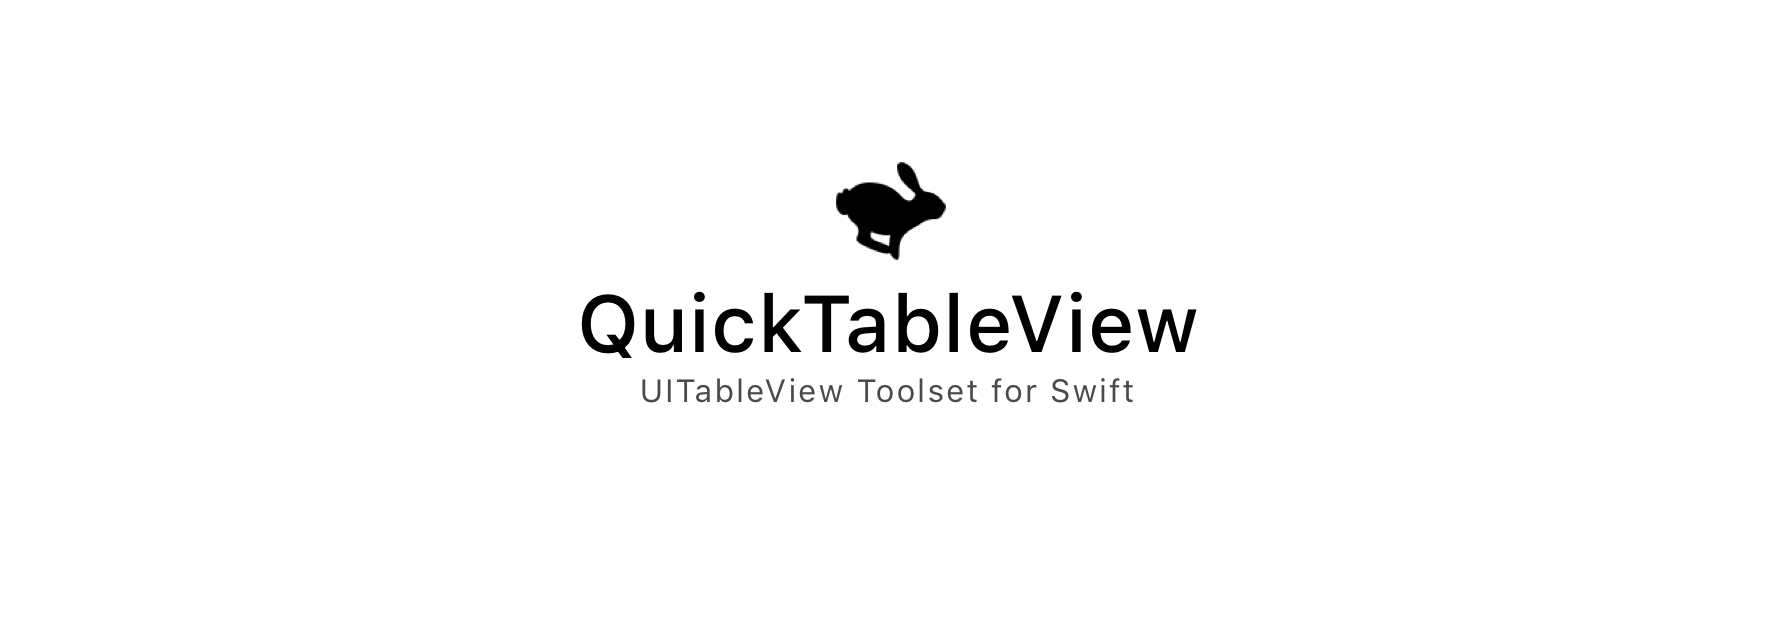
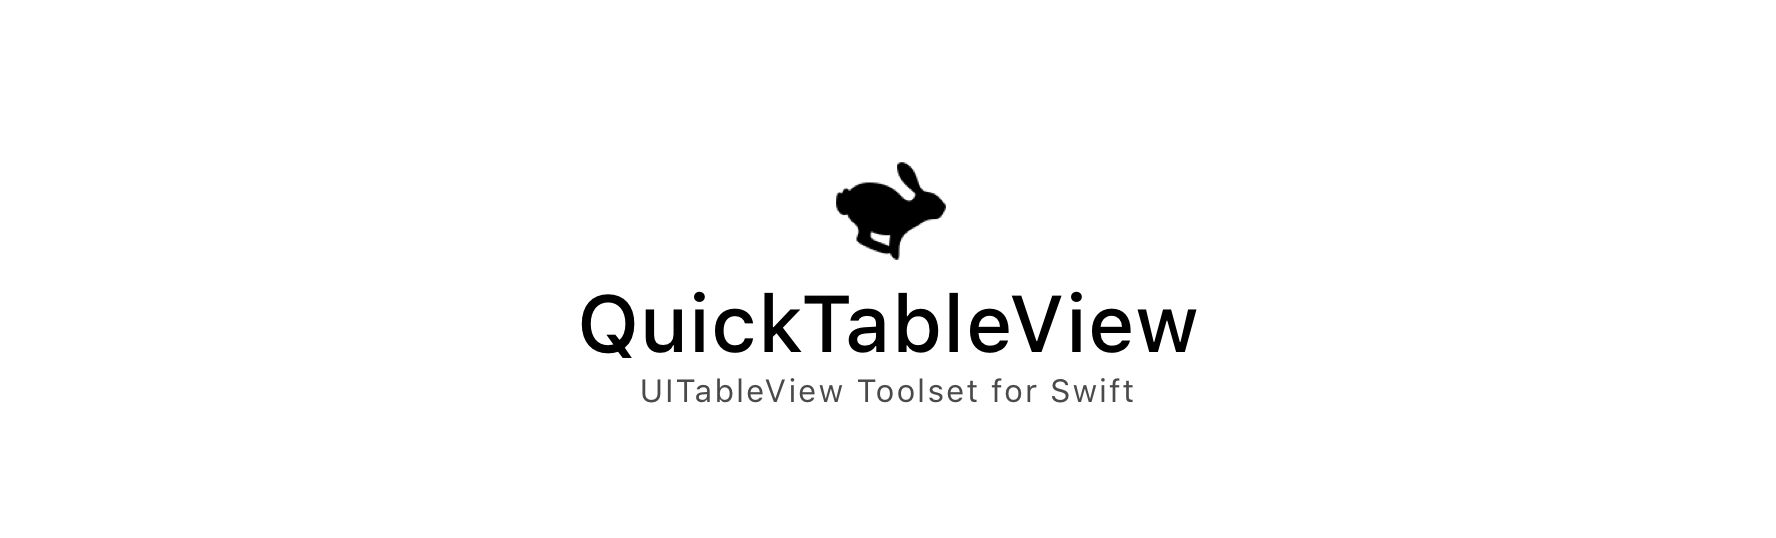
update README

Changed region(s): [[0.3097, 0.2677, 0.6813, 0.6543], [0.3407, 0.7138, 0.6503, 0.7435]]

diff --git a/README.md b/README.md
@@ -15,6 +15,7 @@ limitations under the License.
 -->
 
 ![](meta/repo-banner.png)
+[![](meta/repo-banner-bottom.png)][lionheart-url]
 
 [![CI Status][ci-badge]][travis-repo-url]
 [![Version][version-badge]][cocoapods-repo-url]
@@ -69,4 +70,5 @@ QuickTableView is available under the Apache 2.0 license. See the [LICENSE](LICE
 [cocoapods-url]: http://cocoapods.org
 [cocoapods-repo-url]: http://cocoapods.org/pods/QuickTableView
 [doc-url]: https://code.lionheart.software/QuickTableView/
+[lionheart-url]: https://lionheartsw.com/
 
